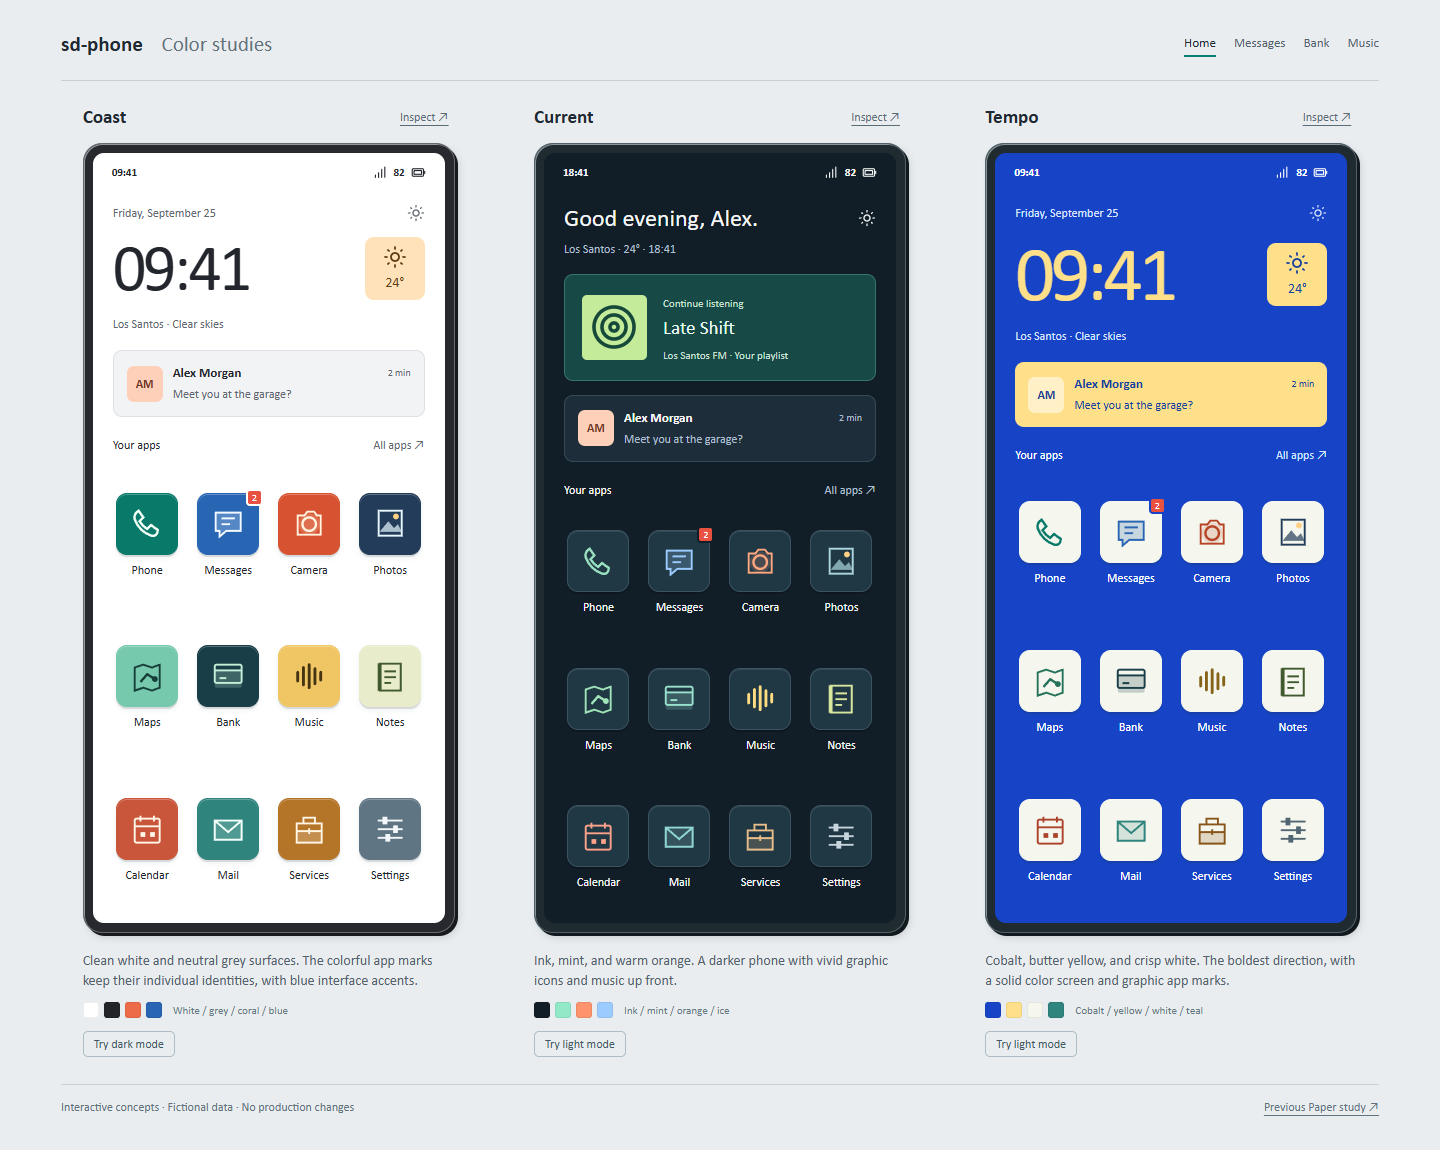
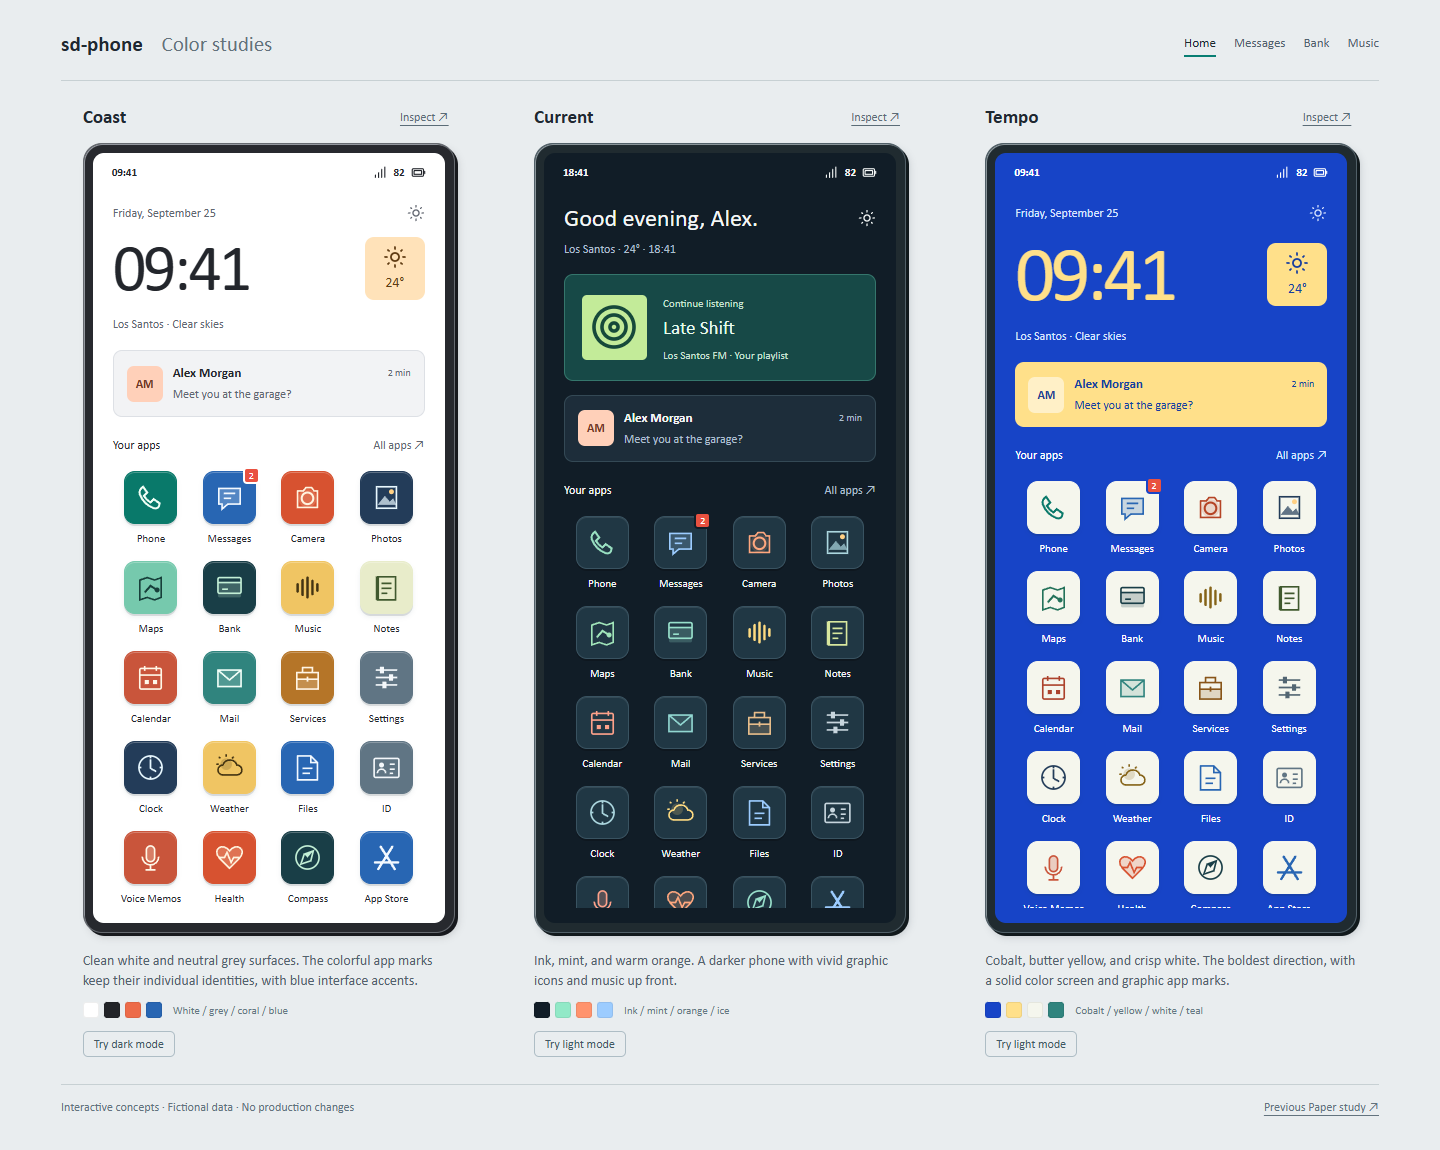
Show all remaining phone apps in compact mockup grid

Changed region(s): [[0.0625, 0.3957, 0.3125, 0.7913], [0.6875, 0.3957, 0.9375, 0.7913], [0.375, 0.4261, 0.625, 0.7913]]

diff --git a/designs/phone-concepts/vibrant.html b/designs/phone-concepts/vibrant.html
@@ -64,10 +64,7 @@
     .app-tile { min-width: 0; display: flex; align-items: center; flex-direction: column; gap: 8px; border: 0; background: none; color: var(--ink); padding: 0; }
     .app-mark { width: 53px; height: 53px; border-radius: 11px; position: relative; display: grid; place-items: center; color: var(--glyph); background: var(--tile); border: 1px solid var(--tile); box-shadow: inset 0 1px 0 #ffffff45, 0 2px 0 #10263320, 0 3px 5px #10263312; }
     .app-mark svg { width: 33px; height: 33px; }
-    .home .app-grid { flex: 1; min-height: 300px; grid-template-rows: repeat(3, minmax(0, 1fr)); row-gap: 16px; align-items: center; }
-    .home .app-mark { width: min(62px, 100%); height: auto; aspect-ratio: 1; }
-    .home .app-mark svg { width: 64%; height: 64%; }
-    .home .app-label { font-size: 12px; }
+    .home .app-grid { flex: 1; min-height: 0; overflow-y: auto; align-content: start; row-gap: 16px; padding: 5px 5px 12px; scrollbar-width: thin; scrollbar-color: var(--line) transparent; }
     .app-label { font-size: 11px; font-weight: 500; text-align: center; }
     .app-tile:active .app-mark { box-shadow: inset 0 2px 3px #0003; }
     .count { position: absolute; right: -5px; top: -5px; width: 17px; height: 17px; background: #e95140; color: #fff; border: 2px solid var(--bg); border-radius: 4px; font-size: 10px; display: grid; place-items: center; }
@@ -182,11 +179,22 @@
       record: '<circle cx="12" cy="12" r="10"/><circle cx="12" cy="12" r="6"/><circle cx="12" cy="12" r="2"/>',
     };
     const icon = name => `<svg class="icon" viewBox="0 0 24 24" aria-hidden="true">${paths[name] || paths.apps}</svg>`;
-    const appNames = { phone: 'Phone', messages: 'Messages', camera: 'Camera', photos: 'Photos', maps: 'Maps', bank: 'Bank', music: 'Music', notes: 'Notes', calendar: 'Calendar', mail: 'Mail', services: 'Services', settings: 'Settings' };
+    const appNames = {
+      phone: 'Phone', messages: 'Messages', camera: 'Camera', photos: 'Photos', maps: 'Maps', bank: 'Bank', music: 'Music', notes: 'Notes',
+      calendar: 'Calendar', mail: 'Mail', services: 'Services', settings: 'Settings', clock: 'Clock', weather: 'Weather', documents: 'Files', id: 'ID',
+      voicememos: 'Voice Memos', health: 'Health', compass: 'Compass', appstore: 'App Store', pages: 'Pages', darkchat: 'Dark Chat', cherry: 'Cherry',
+      photogram: 'Photogram', garages: 'Garages', homes: 'Homes', calculator: 'Calculator', passwords: 'Passwords', vibez: 'Clout',
+      weazelnews: 'Weazel News', streaks: 'Streaks', birdy: 'Squawk', racing: 'Racing',
+    };
     const colors = {
       phone: ['#09796a','#f1fff6','#99e0c1'], messages: ['#2866b3','#f3f9ff','#9cccff'], camera: ['#d75230','#fff4df','#ffa77e'], photos: ['#233c59','#e8f8ff','#acd7df'],
       maps: ['#76c9ad','#173f3a','#a0e4b9'], bank: ['#193e47','#c3efd6','#98e0cb'], music: ['#f0c563','#443412','#ffdb81'], notes: ['#e8ecca','#40592e','#d8e79e'],
       calendar: ['#c9553b','#fff8e8','#fda18a'], mail: ['#30847e','#f2fff8','#91d7d1'], services: ['#b57528','#fff5e5','#e7bd8a'], settings: ['#607584','#f4f8fb','#c7d5dd'],
+      clock: ['#233c59','#e8f8ff','#acd7df'], weather: ['#f0c563','#443412','#ffdb81'], documents: ['#2866b3','#f3f9ff','#9cccff'], id: ['#607584','#f4f8fb','#c7d5dd'],
+      voicememos: ['#c9553b','#fff8e8','#fda18a'], health: ['#d75230','#fff4df','#ffa77e'], compass: ['#193e47','#c3efd6','#98e0cb'], appstore: ['#2866b3','#f3f9ff','#9cccff'],
+      pages: ['#f0c563','#443412','#ffdb81'], darkchat: ['#233c59','#e8f8ff','#acd7df'], cherry: ['#c9553b','#fff8e8','#fda18a'], photogram: ['#d75230','#fff4df','#ffa77e'],
+      garages: ['#607584','#f4f8fb','#c7d5dd'], homes: ['#09796a','#f1fff6','#99e0c1'], calculator: ['#b57528','#fff5e5','#e7bd8a'], passwords: ['#193e47','#c3efd6','#98e0cb'],
+      vibez: ['#2866b3','#f3f9ff','#9cccff'], weazelnews: ['#c9553b','#fff8e8','#fda18a'], streaks: ['#f0c563','#443412','#ffdb81'], birdy: ['#30847e','#f2fff8','#91d7d1'], racing: ['#233c59','#e8f8ff','#acd7df'],
     };
     // Graphic marks use a shared geometry and stroke scale; no illustrated or sculpted objects.
     const marks = {
@@ -202,6 +210,27 @@
       mail: '<path d="M6 11h28v20H6z" fill="currentColor" opacity=".17"/><path d="M6 11h28v20H6zM6 11l14 12 14-12" fill="none" stroke="currentColor" stroke-width="2"/>',
       services: '<path d="M7 14h26v20H7zM14 14V8h12v6M7 22h26M20 19v6" fill="none" stroke="currentColor" stroke-width="2"/><path d="M7 23h26v11H7z" fill="currentColor" opacity=".2"/>',
       settings: '<path d="M7 11h26M7 20h26M7 29h26" stroke="currentColor" stroke-width="2"/><path d="M12 7h5v8h-5zM23 16h5v8h-5zM15 25h5v8h-5z" fill="currentColor"/>',
+      clock: '<circle cx="20" cy="20" r="14" fill="none" stroke="currentColor" stroke-width="2"/><path d="M20 10v11l7 4M20 6v3M34 20h-3M20 34v-3M6 20h3" fill="none" stroke="currentColor" stroke-width="2"/>',
+      weather: '<circle cx="16" cy="16" r="7" fill="currentColor" opacity=".2"/><path d="M16 4v3M4 16h3M7 7l2 2M25 7l-2 2" stroke="currentColor" stroke-width="2"/><path d="M12 29a6 6 0 0 1 0-12 9 9 0 0 1 17 0 6 6 0 0 1 0 12Z" fill="none" stroke="currentColor" stroke-width="2"/>',
+      documents: '<path d="M8 6h16l8 8v21H8zM24 6v8h8M14 21h12M14 27h9" fill="none" stroke="currentColor" stroke-width="2"/>',
+      id: '<rect x="5" y="9" width="30" height="23" rx="2" fill="none" stroke="currentColor" stroke-width="2"/><circle cx="14" cy="17" r="3" fill="currentColor"/><path d="M9 27a5 5 0 0 1 10 0M24 16h6M24 22h6M24 27h4" fill="none" stroke="currentColor" stroke-width="2"/>',
+      voicememos: '<rect x="15" y="6" width="10" height="19" rx="5" fill="currentColor" opacity=".25"/><rect x="15" y="6" width="10" height="19" rx="5" fill="none" stroke="currentColor" stroke-width="2"/><path d="M10 19a10 10 0 0 0 20 0M20 29v6M14 35h12" fill="none" stroke="currentColor" stroke-width="2"/>',
+      health: '<path d="M20 33 8 21C-2 10 12 1 20 12 28 1 42 10 32 21Z" fill="currentColor" opacity=".2"/><path d="M20 33 8 21C-2 10 12 1 20 12 28 1 42 10 32 21ZM7 20h7l3-6 5 12 3-6h8" fill="none" stroke="currentColor" stroke-width="2"/>',
+      compass: '<circle cx="20" cy="20" r="14" fill="none" stroke="currentColor" stroke-width="2"/><path d="m27 12-3 12-12 4 4-12Z" fill="none" stroke="currentColor" stroke-width="2"/><path d="m27 12-7 8-4-4Z" fill="currentColor"/>',
+      appstore: '<path d="m13 7 17 27M27 7 10 34M6 26h28" stroke="currentColor" stroke-width="3" stroke-linecap="round"/>',
+      pages: '<path d="M7 8h26v26H7zM13 8v26M18 14h9M18 20h9M18 26h6" fill="none" stroke="currentColor" stroke-width="2"/><path d="M7 8h6v26H7z" fill="currentColor" opacity=".25"/>',
+      darkchat: '<path d="M6 10h28v20H16l-7 5v-5H6z" fill="none" stroke="currentColor" stroke-width="2"/><path d="m16 16-4 4 4 4M24 16l4 4-4 4" fill="none" stroke="currentColor" stroke-width="2"/>',
+      cherry: '<circle cx="12" cy="27" r="7" fill="currentColor" opacity=".3"/><circle cx="28" cy="27" r="7" fill="currentColor" opacity=".3"/><path d="M12 20c0-8 8-8 8-15 0 7 8 7 8 15M20 6c6-2 10 0 10 5-5 0-8-1-10-5" fill="none" stroke="currentColor" stroke-width="2"/><circle cx="12" cy="27" r="7" fill="none" stroke="currentColor" stroke-width="2"/><circle cx="28" cy="27" r="7" fill="none" stroke="currentColor" stroke-width="2"/>',
+      photogram: '<rect x="7" y="7" width="26" height="26" rx="5" fill="none" stroke="currentColor" stroke-width="2"/><circle cx="20" cy="20" r="7" fill="none" stroke="currentColor" stroke-width="2"/><circle cx="28" cy="12" r="2" fill="currentColor"/>',
+      garages: '<path d="m5 14 15-8 15 8v21H5zM11 35V18h18v17M11 23h18M11 28h18" fill="none" stroke="currentColor" stroke-width="2"/>',
+      homes: '<path d="m5 19 15-13 15 13M9 16v19h22V16M16 35V24h8v11" fill="none" stroke="currentColor" stroke-width="2.5"/>',
+      calculator: '<rect x="9" y="5" width="22" height="31" rx="2" fill="none" stroke="currentColor" stroke-width="2"/><path d="M14 10h12v6H14zM14 23h5M16.5 20.5v5M23 23h4M14 31h5M23 29h4M23 32h4" fill="none" stroke="currentColor" stroke-width="2"/>',
+      passwords: '<circle cx="13" cy="16" r="7" fill="none" stroke="currentColor" stroke-width="2.5"/><path d="m18 21 14 14M26 29l4-4M30 33l4-4" stroke="currentColor" stroke-width="3"/>',
+      vibez: '<path d="M9 7v26l22-13Z" fill="currentColor" opacity=".25"/><path d="M9 7v26l22-13Z" fill="none" stroke="currentColor" stroke-width="2"/><path d="M35 12v16" stroke="currentColor" stroke-width="2"/>',
+      weazelnews: '<path d="M6 8h23v25H6zM29 15h6v18h-6M11 14h13M11 20h5v7h-5zM20 20h4M20 26h4" fill="none" stroke="currentColor" stroke-width="2"/>',
+      streaks: '<path d="M22 5c1 9 10 12 10 21a12 12 0 0 1-24 0c0-5 3-9 6-13 0 6 2 8 4 8 5-4 4-10 4-16Z" fill="currentColor" opacity=".25"/><path d="M22 5c1 9 10 12 10 21a12 12 0 0 1-24 0c0-5 3-9 6-13 0 6 2 8 4 8 5-4 4-10 4-16Z" fill="none" stroke="currentColor" stroke-width="2"/>',
+      birdy: '<path d="M8 16h24v13H18l-8 6v-6H8zM5 7h25M5 11h17" fill="none" stroke="currentColor" stroke-width="2"/><path d="M13 21h14M13 25h9" stroke="currentColor" stroke-width="2"/>',
+      racing: '<path d="M8 35V6h25v18H8" fill="none" stroke="currentColor" stroke-width="2"/><path d="M8 6h8v6H8zM24 6h9v6h-9zM16 12h8v6h-8zM8 18h8v6H8zM24 18h9v6h-9z" fill="currentColor"/>',
     };
     const catalog = [
       { id:'coast', name:'Coast', mode:'light', description:'Clean white and neutral grey surfaces. The colorful app marks keep their individual identities, with blue interface accents.', swatches:['#ffffff','#222428','#ed6b49','#2866b3'], swatchLabel:'White / grey / coral / blue' },
@@ -220,7 +249,7 @@
     }
     const state = Object.fromEntries(designs.map(d => [d.id, { page:'home', mode:d.mode, playing:false, messages:[], contact:'Alex Morgan' }]));
     const button = (id, content, cls='plain') => `<button class="${cls}" data-open="${id}" aria-label="${appNames[id] || ({home:'Home',apps:'All apps',chat:'Open conversation'}[id]) || id}">${content}</button>`;
-    const tempoColors = { maps:'#24725a', music:'#856318', notes:'#40592e', camera:'#b54425', calendar:'#ac422c', services:'#885519', settings:'#526572' };
+    const tempoColors = { maps:'#24725a', music:'#856318', notes:'#40592e', camera:'#b54425', calendar:'#ac422c', services:'#885519', settings:'#526572', weather:'#856318', pages:'#856318', streaks:'#856318' };
     const tile = id => `<button class="app-tile" data-open="${id}" data-app-tile aria-label="${appNames[id]}${id === 'messages' ? ', 2 unread' : ''}"><span class="app-mark" style="--tile:${colors[id][0]};--glyph:${colors[id][1]};--current-glyph:${colors[id][2]};--tempo-glyph:${tempoColors[id] || colors[id][0]}"><svg viewBox="0 0 40 40" aria-hidden="true">${marks[id]}</svg>${id === 'messages' ? '<span class="count" aria-hidden="true">2</span>' : ''}</span><span class="app-label">${appNames[id]}</span></button>`;
     const appHeader = (name, target='home') => `<div class="app-header">${button(target, icon('back'))}<h3>${name}</h3></div>`;
     const input = label => `<label class="input-field">${icon('search')}<input data-search type="search" placeholder="${label}" aria-label="${label}"></label>`;

diff --git a/designs/phone-concepts/README.md b/designs/phone-concepts/README.md
@@ -6,7 +6,7 @@ Open `vibrant.html` for three fresh directions: **Coast** (clean white or dark g
 
 Open `vibrant.html?study=coast` to compare the selected Coast design in both modes. Light mode uses pure white `#ffffff`, dark text `#23262c`, and neutral surfaces `#f2f3f5`. Dark mode uses dark grey `#222428`, white text `#f4f5f7`, and graphite surfaces `#303338`. Backgrounds, text, borders, and the device frame have no green tint; individual app icons retain their colors.
 
-The home-screen music strip and bottom Home / Apps / Messages navigation bar have been removed. The home grid fills the freed screen height, with evenly distributed rows and larger icons that still fit the available column width. Open apps from their icons or the All apps link, and use the back button inside each app to return. The controls above the phones remain available for comparing example screens.
+The home-screen music strip and bottom Home / Apps / Messages navigation bar have been removed. The compact four-column grid now includes all 33 apps in the phone registry, instead of only 12 sample icons. Scroll the app grid for the remaining rows, or use All apps to search. Icons retain their original size and each added app has a matching graphic mark. Removed apps are not included. These are preview tiles, not new production apps. Use the back button inside each app to return. The controls above the phones remain available for comparing example screens.
 
 Screenshots are in `screenshots/vibrant/`. Run `node designs/phone-concepts/capture-vibrant.mjs` to refresh them and check interactions. This uses the existing Playwright dependency and installed Chrome.
 
